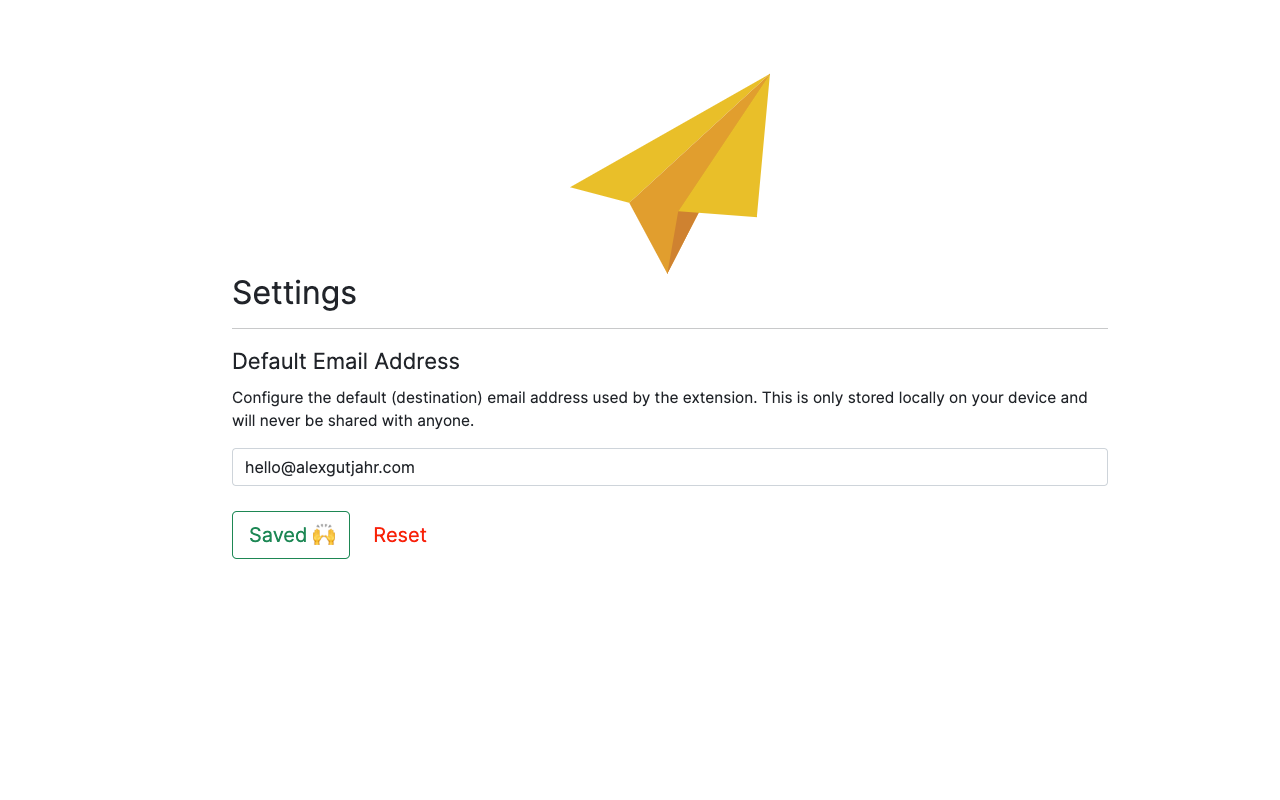
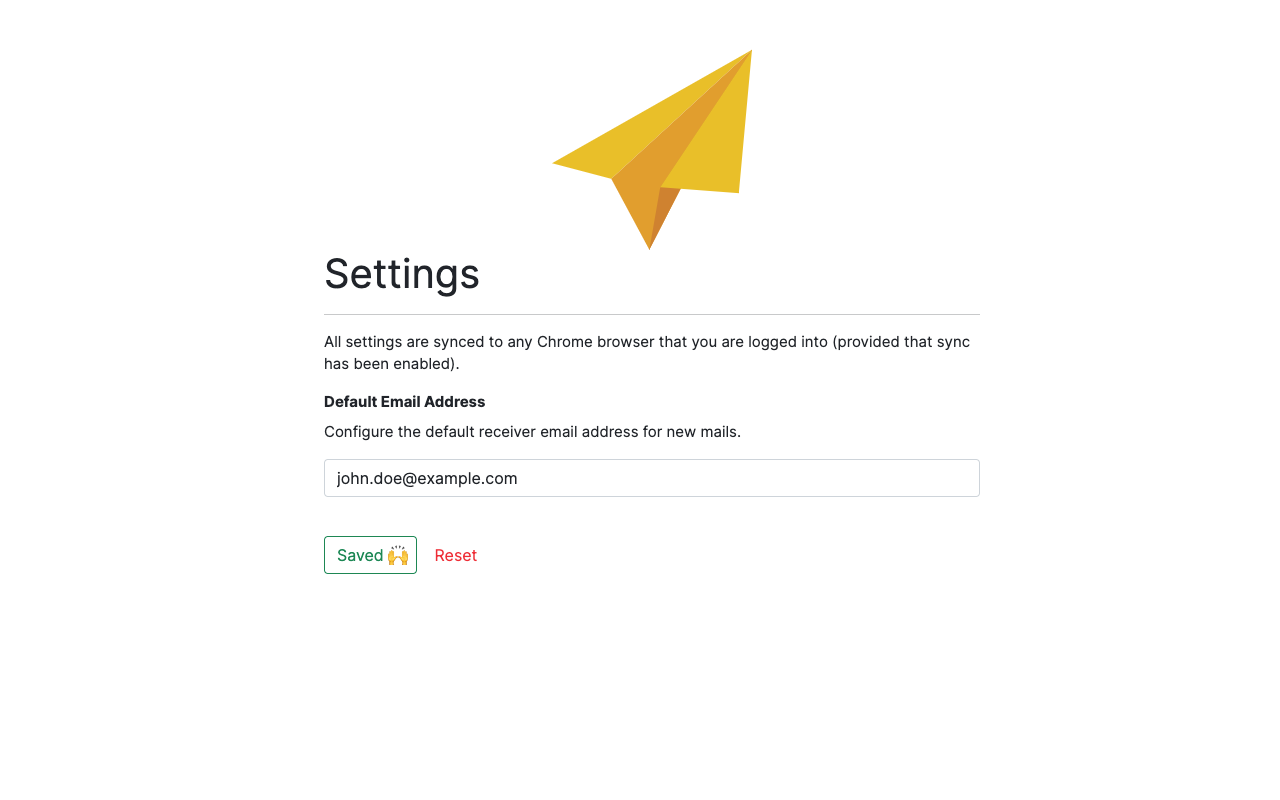
Resolve #1 and polish code
This change adds support for using the context menu to activate the
extension and with that change it is now also possible to interact with
single links (rather than the whole page).

It also polishes the code a bit and makes the usage of the Chrome sync
storage more obvious.

Changed region(s): [[0.1875, 0.3125, 0.8438, 0.625], [0.4375, 0.0625, 0.625, 0.3438], [0.1875, 0.6562, 0.375, 0.7188]]

diff --git a/options.html b/options.html
@@ -1,5 +1,5 @@
 <!DOCTYPE html>
-<html lang="en">
+<html lang="en" class="h-100">
   <head>
     <meta charset="utf-8" />
     <link rel="preconnect" href="https://fonts.gstatic.com" />
@@ -15,31 +15,42 @@
     />
     <link rel="stylesheet" href="options.css" />
   </head>
-  <body>
-    <div class="container">
-      <img alt="Link 2 Mail" width="200px" src="images/plane.svg" class="logo" />
-      <div class="settings">
-        <h2>Settings</h2>
-        <hr />
-        <label for="email" class="form-label">Default Email Address</label>
-        <p>
-          Configure the default (destination) email address used by the extension. This is only
-          stored locally on your device and will never be shared with anyone.
-        </p>
-        <input
-          type="email"
-          name="email"
-          id="email"
-          placeholder="john.doe@example.com"
-          class="form-control"
-        />
-        <div id="hint" class="error form-text"></div>
-        <div class="buttons">
-          <button id="save" type="button" class="btn btn-lg btn-outline-dark">Save</button>
-          <button id="reset" type="button" class="btn btn-lg btn-link">Reset</button>
+  <body class="d-flex flex-column h-100">
+    <main class="flex-shrink-0">
+      <div class="container">
+        <img alt="Send via Mail logo" width="200px" src="images/plane.svg" class="logo" />
+        <div class="settings">
+          <h1>Settings</h1>
+          <hr />
+          <p>
+            All settings are synced to any Chrome browser that you are logged into (provided that
+            sync has been enabled).
+          </p>
+          <label for="email" class="form-label">Default Email Address</label>
+          <p>Configure the default receiver email address for new mails.</p>
+          <input
+            type="email"
+            name="email"
+            id="email"
+            placeholder="john.doe@example.com"
+            class="form-control"
+          />
+          <div id="hint" class="error form-text"></div>
+          <div class="buttons">
+            <button id="save" type="button" class="btn btn-outline-dark">Save</button>
+            <button id="reset" type="button" class="btn btn-link">Reset</button>
+          </div>
         </div>
       </div>
-    </div>
+    </main>
+    <footer class="footer mt-auto py-3 bg-light">
+      <div class="container">
+        <span class="text-muted"
+          >Send via Mail is Open-source Software and available on
+          <a href="https://github.com/alexgutjahr/send-via-mail">GitHub</a></span
+        >
+      </div>
+    </footer>
   </body>
   <script src="options.js"></script>
 </html>

diff --git a/options.js b/options.js
@@ -1,40 +1,54 @@
-let save = document.getElementById("save");
-let reset = document.getElementById("reset");
-let email = document.getElementById("email");
-let hint = document.getElementById("hint");
+const save = document.getElementById("save");
+const reset = document.getElementById("reset");
+const email = document.getElementById("email");
+const hint = document.getElementById("hint");
 
-chrome.storage.sync.get("email", ({ email }) => {
-  document.getElementById("email").value = email;
+// Pre-populate the email address with the stored one.
+chrome.storage.sync.get("email", ({ storedEmail }) => {
+  if (storedEmail !== undefined) {
+    email.value = storedEmail;
+  }
 });
 
 save.addEventListener("click", () => {
-  if (invalid(email.value)) {
-    return;
-  }
+  let validation = validate(email.value);
 
-  chrome.storage.sync.set({ email: email.value }, () => {
-    save.textContent = "Saved 🙌";
-    save.classList.remove("btn-outline-dark");
-    save.classList.add("btn-outline-success");
-  });
+  if (validation.result == "failure") {
+    hint.textContent = validation.message;
+  } else {
+    hint.textContent = "";
+    chrome.storage.sync.set({ email: email.value }, () => {
+      save.textContent = "Saved 🙌";
+      save.classList.remove("btn-outline-dark");
+      save.classList.add("btn-outline-success");
+      setTimeout(function () {
+        save.textContent = "Save";
+        save.classList.add("btn-outline-dark");
+        save.classList.remove("btn-outline-success");
+      }, 2000);
+    });
+  }
+});
+
+email.addEventListener("input", () => {
+  hint.textContent = "";
 });
 
 reset.addEventListener("click", () => {
-  chrome.storage.sync.set({ email: null });
-  location.reload();
+  chrome.storage.sync.clear(() => {
+    location.reload();
+  });
 });
 
-function invalid(email) {
+function validate(email) {
   if (email.length == 0) {
-    hint.textContent = "Email must not be empty.";
-    return true;
+    return { result: "failure", message: "Email must not be empty." };
   }
 
-  var regex = /^([a-zA-Z0-9_.+-])+\@(([a-zA-Z0-9-])+\.)+([a-zA-Z0-9]{2,4})+$/;
+  let regex = /^([a-zA-Z0-9_.+-])+\@(([a-zA-Z0-9-])+\.)+([a-zA-Z0-9]{2,4})+$/;
   if (!regex.test(email)) {
-    hint.textContent = "Email format is not correct, please double-check.";
-    return true;
+    return { result: "failure", message: "Email format is not correct, please double-check." };
   }
 
-  return false;
+  return { result: "success" };
 }

diff --git a/background.js b/background.js
@@ -1,8 +1,33 @@
+// Initialize the context menu.
+const parent = chrome.contextMenus.create({
+  id: "menu",
+  title: "Send via Mail",
+  contexts: ["link", "page"],
+});
+
+// Handle clicks on the extension icon in the browser bar.
 chrome.action.onClicked.addListener((tab) => {
+  mailto(encodeURIComponent(tab.title), tab.url);
+});
+
+/*
+ * Handle clicks in the context menu.
+ * If the target is a page, then the URL becomes the email body and the title becomes the email subject.
+ * If the target is a link, then the URL becomes the email body and the email subject.
+ */
+chrome.contextMenus.onClicked.addListener((info, tab) => {
+  if (info.linkUrl) {
+    mailto(info.linkUrl, info.linkUrl);
+  } else {
+    mailto(encodeURIComponent(tab.title), tab.url);
+  }
+});
+
+function mailto(subject, body) {
   chrome.storage.sync.get("email", ({ email }) => {
     chrome.tabs.create({
       active: true,
-      url: `mailto:${email || ""}?subject=${encodeURIComponent(tab.title)}&body=${tab.url}`,
+      url: `mailto:${email || ""}?subject=${subject}&body=${body}`,
     });
   });
-});
+}

diff --git a/options.css b/options.css
@@ -1,11 +1,34 @@
+:root {
+    --red-color: #ee2d35;
+}
+
 body {
     font-family: 'Inter', sans-serif;
-    font-size: 22px;
+    font-size: 15px;
+    padding-top: 25px;
+}
+
+label {
+    font-weight: bold;
+}
+
+.btn-link {
+    color: var(--red-color);
+    outline: none;
+    text-decoration: none;
+}
+
+.buttons {
+    margin-top: 10px;
 }
 
 .container {
-    max-width: 900px;
-    margin: 40px auto 0 auto;
+    margin: 0 auto;
+    max-width: 680px;
+}
+
+.error {
+    color: var(--red-color);
 }
 
 .logo {
@@ -13,21 +36,6 @@ body {
     margin: 0 auto;
 }
 
-p {
-    font-size: 70%;
-}
-
-.error {
-    font-size: 70%;
-    color: red;
-}
-
-.buttons {
-    margin-top: 25px;
-}
-
-.btn-link {
-    color: red;
-    text-decoration: none;
-    outline: none;
+#hint {
+    height: 25px;
 }

diff --git a/README.md b/README.md
@@ -1,17 +1,25 @@
-![L2M Logo](images/plane.svg?raw=true&sanitize=true)
+![Send via Mail logo](images/plane.svg?raw=true&sanitize=true)
 
-Link 2 Mail (L2M) is a dead-simple extension for Google Chrome, for sending links to your mailbox.
+Send via Mail is a dead-simple extension for Google Chrome, for sending links to your mailbox.
+It can be directly installed from the [Chrome Web Store](https://chrome.google.com/webstore/detail/link-2-mail/odjigmolandcfedhfbcgbdblookpdmgn).
 
 ## How does it work?
 
-It's sole scope is capturing the title and URL of an active tab in a URL using [the 'mailto' URI scheme](https://tools.ietf.org/html/rfc6068).
-It then opens a new tab with that URL, hence delegating handling to the respective device. Most likely these links are handled by Gmail.
+Send via Mail can be accessed either by its icon in the browser bar, or from the context menu.
+When applied to a page, the extension creates a URL using [the 'mailto' URI scheme](https://tools.ietf.org/html/rfc6068) pre-filling the subject with the page's title and the body with the page's URL.
+When applied to a link, the extension also creates a URL, pre-filling subject and body with the link URL.
+
+The `mailto` URL is then opened in a new tab, delegtating handling to your device.
+You might have to configure handling of `mailto` URLs as is described [here](https://support.google.com/a/users/answer/9308783?hl=en).
 
 ## What permissions does it require?
 
-- Storage: Used to store a default email address, so it doesn't have to be entered every time.
-- Active Tab: Used to query the current title and URL of the page that should be shared.
+- "activeTab": Access the active tab's title and URL.
+- "contextMenus": Allow using the extension from a context menu action.
+- "storage": Store the default email address.
 
 ## Is it secure?
 
-Yes. L2M delegates all email handling and the default email address is only stored locally.
+Yes. Send via Mail delegates the actual handling to the local email client.
+All the settings are only synced with Chrome (given that sync has been enabled),
+and never shared with anyone else.
